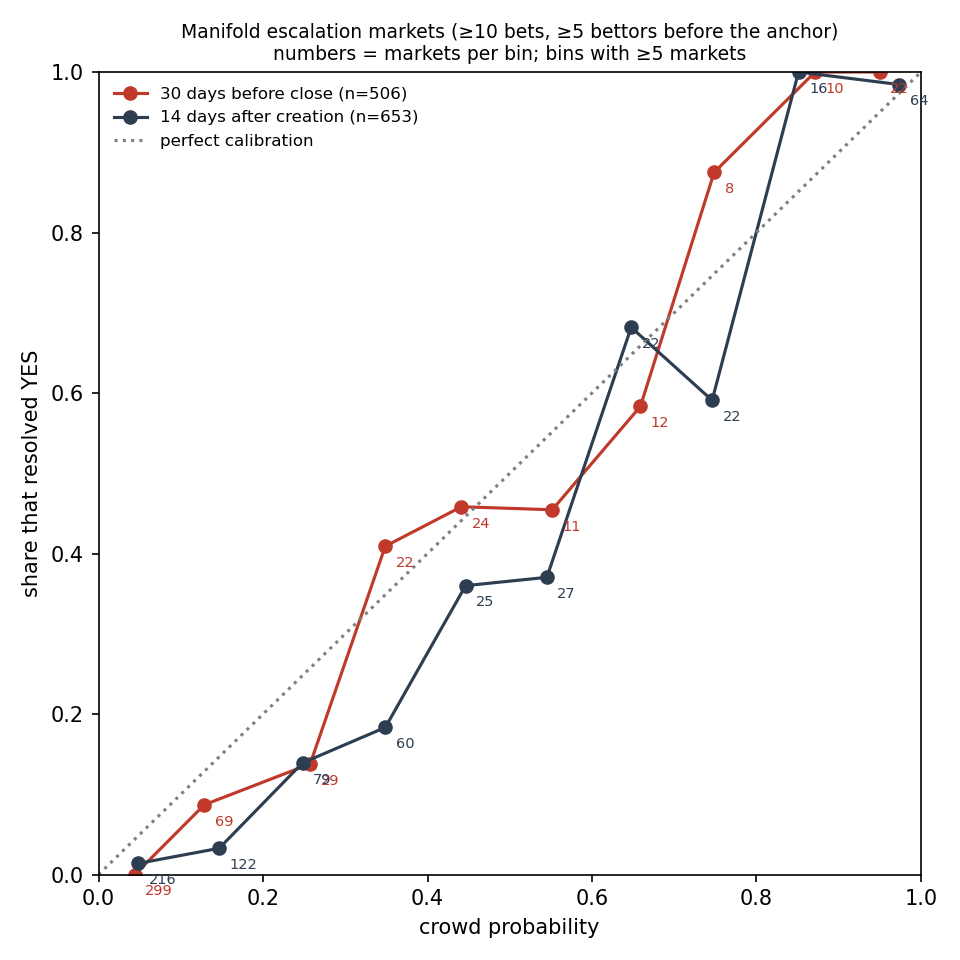
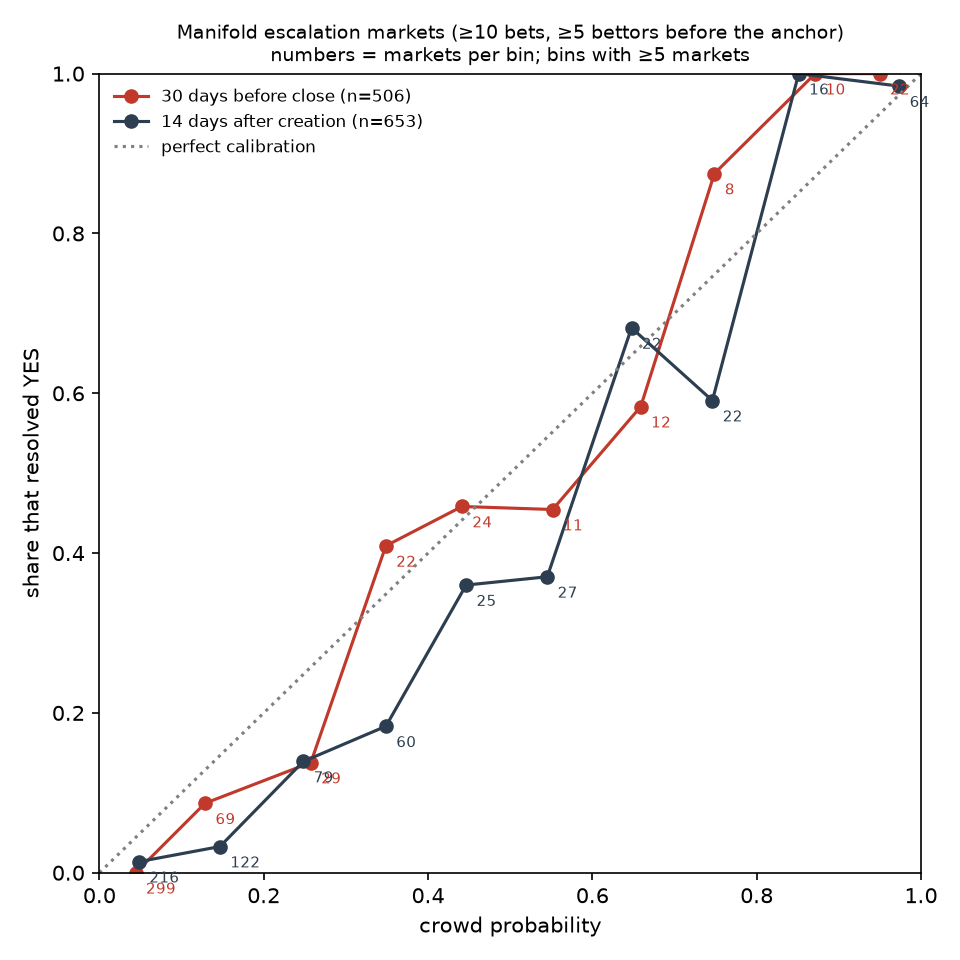
crowdcal README: correction note on the headline

diff --git a/research/crowdcal/README.md b/research/crowdcal/README.md
@@ -10,6 +10,10 @@ days after creation.
 
 ## Result
 
+> **Correction, 16.10:** once markets that close in the same month are treated as dependent, the overall gap below
+> is not established (interval covers zero); what holds is that sub-10% long shots are overpriced, and even that
+> only suggestively. See [Common shocks](#common-shocks-1610-after-glitchfox-rho_checkpy-rho_checktxt).
+
 **The pre-registered test is not met.** On escalation questions (attack, invasion, nuclear test,
 mobilisation…), the crowd price 30 days before close exceeds the share that resolved YES by
 **+3.9 points [+1.4, +6.3]** (n = 391). I predicted at least +5. The point estimate is below the
